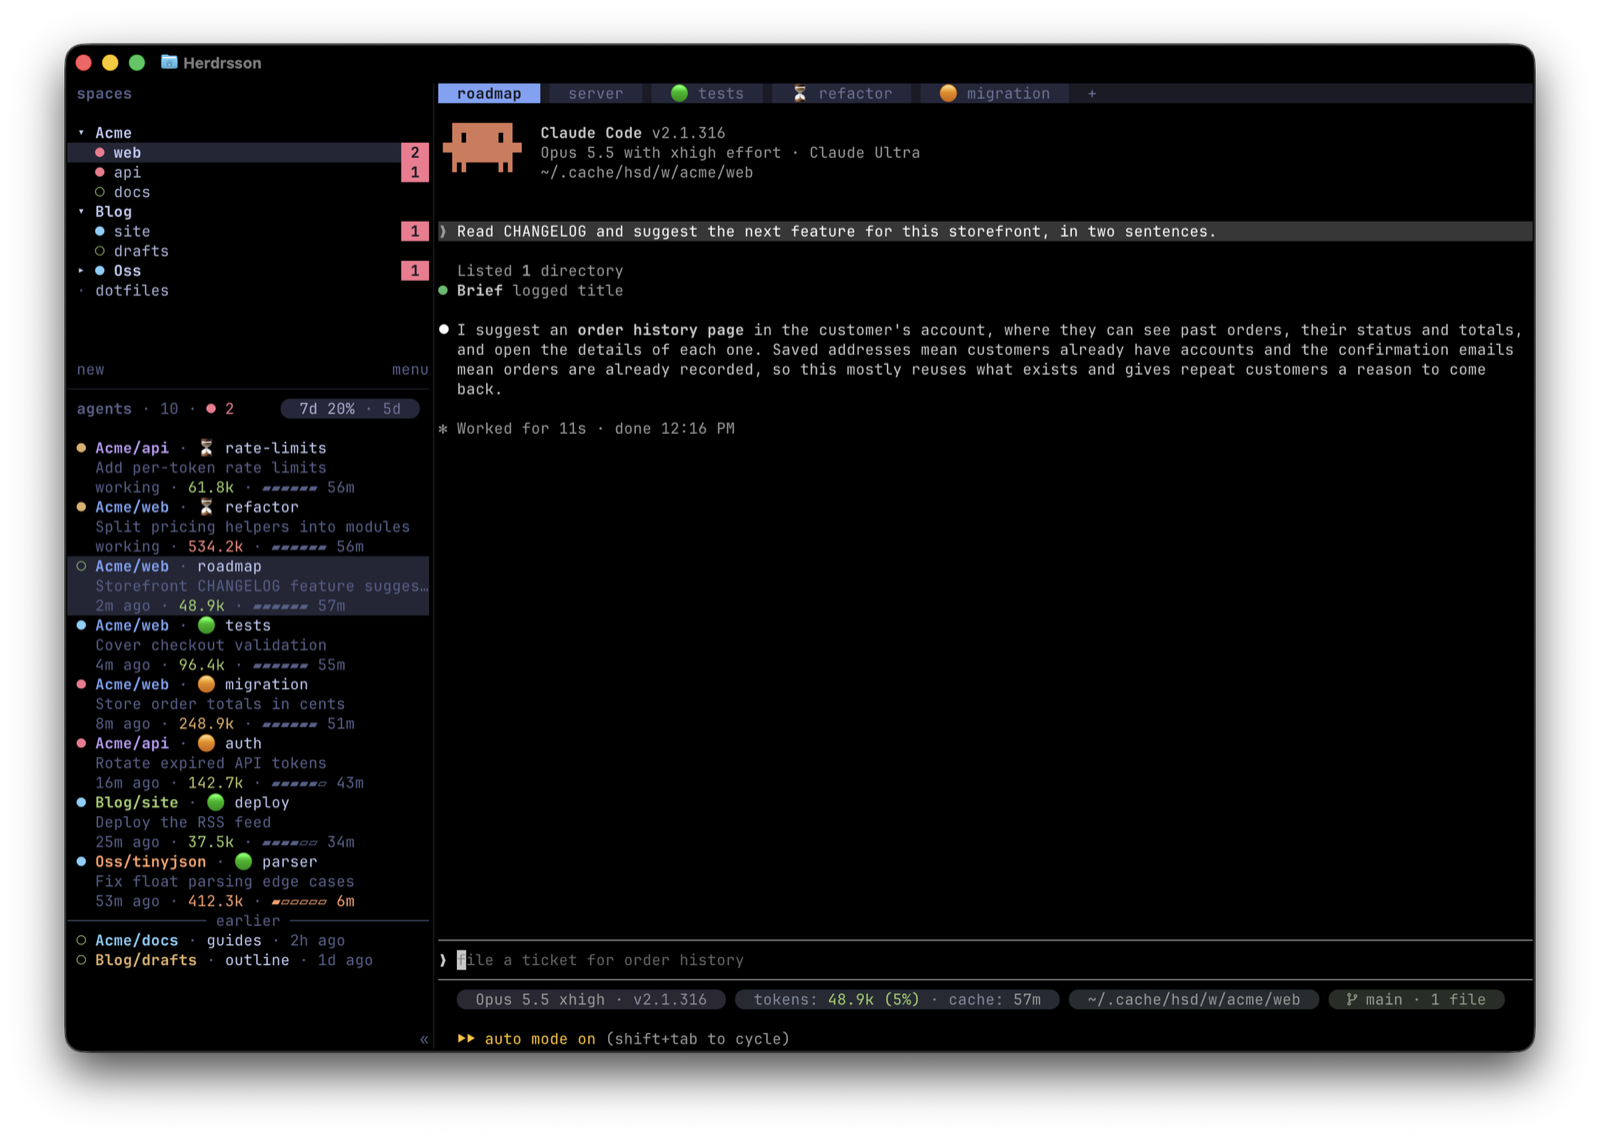
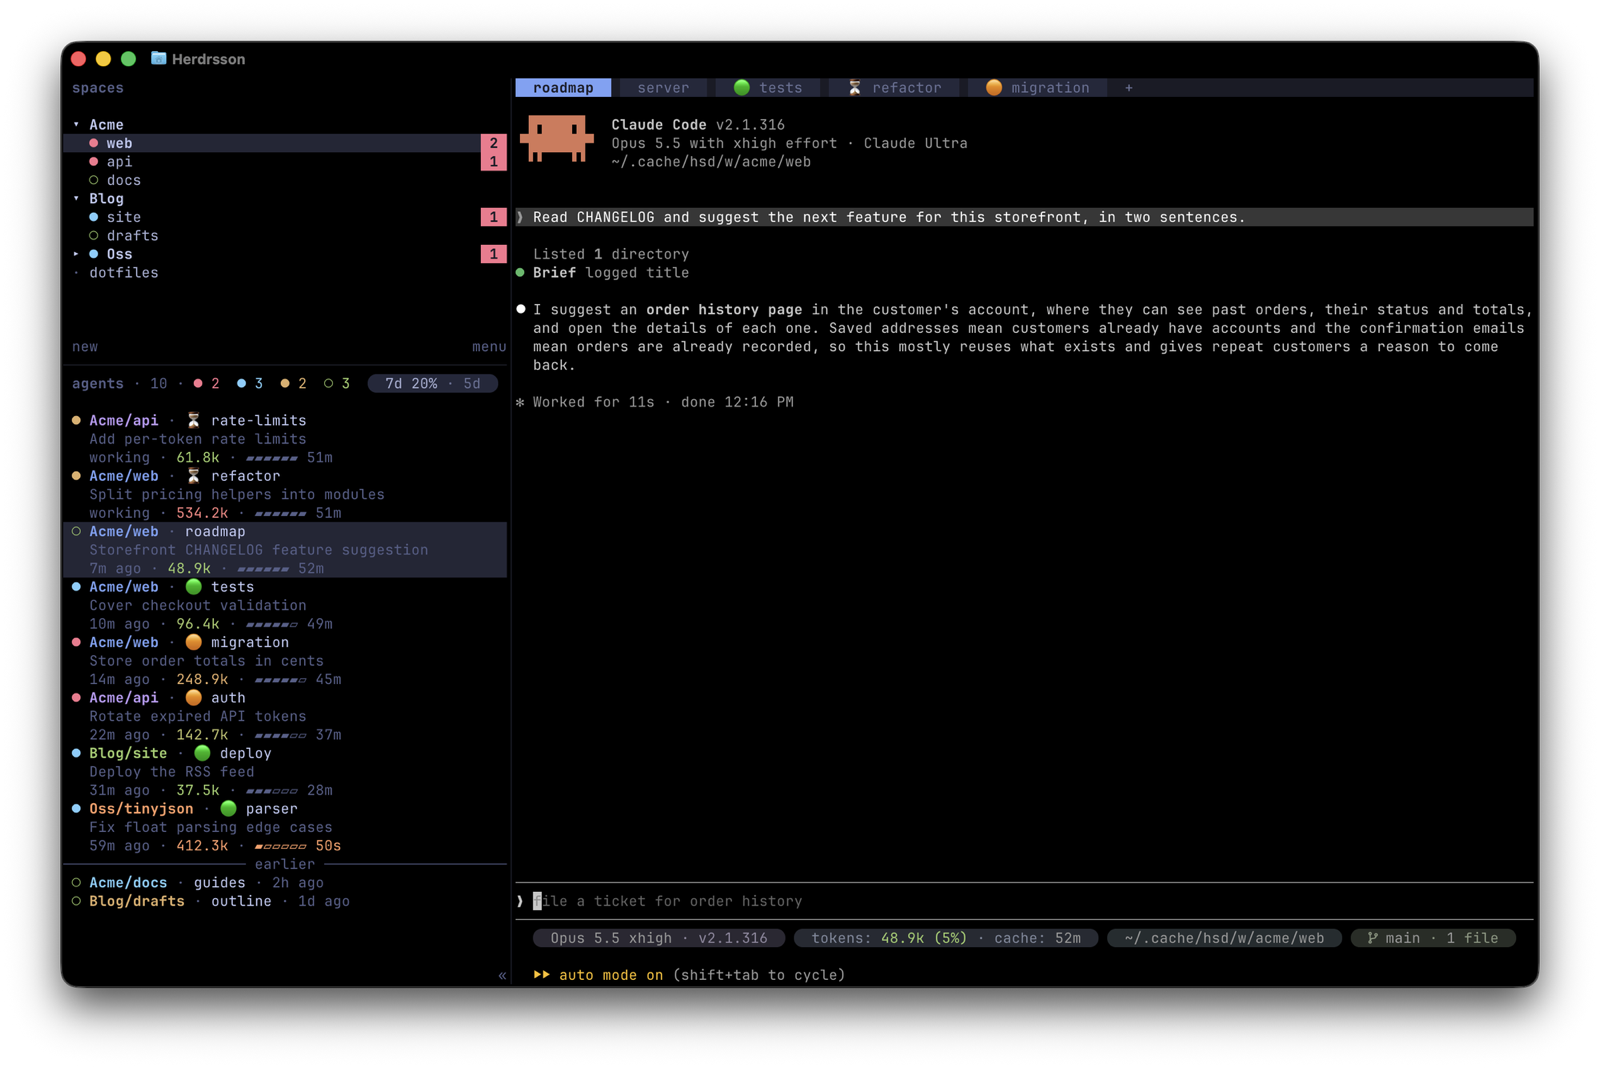
update the screenshot

Changed region(s): [[0.0312, 0.0309, 0.9688, 0.927], [0.2812, 0.8034, 0.875, 0.927]]

diff --git a/README.md b/README.md
@@ -18,7 +18,7 @@ neither is its output while it works, so a working agent's time is when it
 started. The time reads 14:32 for today, Mon 14:32 for the past week and
 12 Oct before that.
 
-![Herdrsson's agents panel listing ten agents, the two working ones first, then by their last activity, from 2m ago to 1d ago, the two idle for hours on one line each under an earlier line](screenshot.png)
+![Herdrsson's agents panel listing ten agents, the two working ones first, then by their last activity, from 7m ago to 1d ago, the two idle for hours on one line each under an earlier line](screenshot.png)
 
 The agents panel's order (`recent`) and times come from this plugin, the times shown as
 `3m ago` by [Herdrsson, my fork of Herdr](https://github.com/bagonyi/herdrsson/blob/herdrsson/FORK.md) (see [Showing the time](#showing-the-time)).
